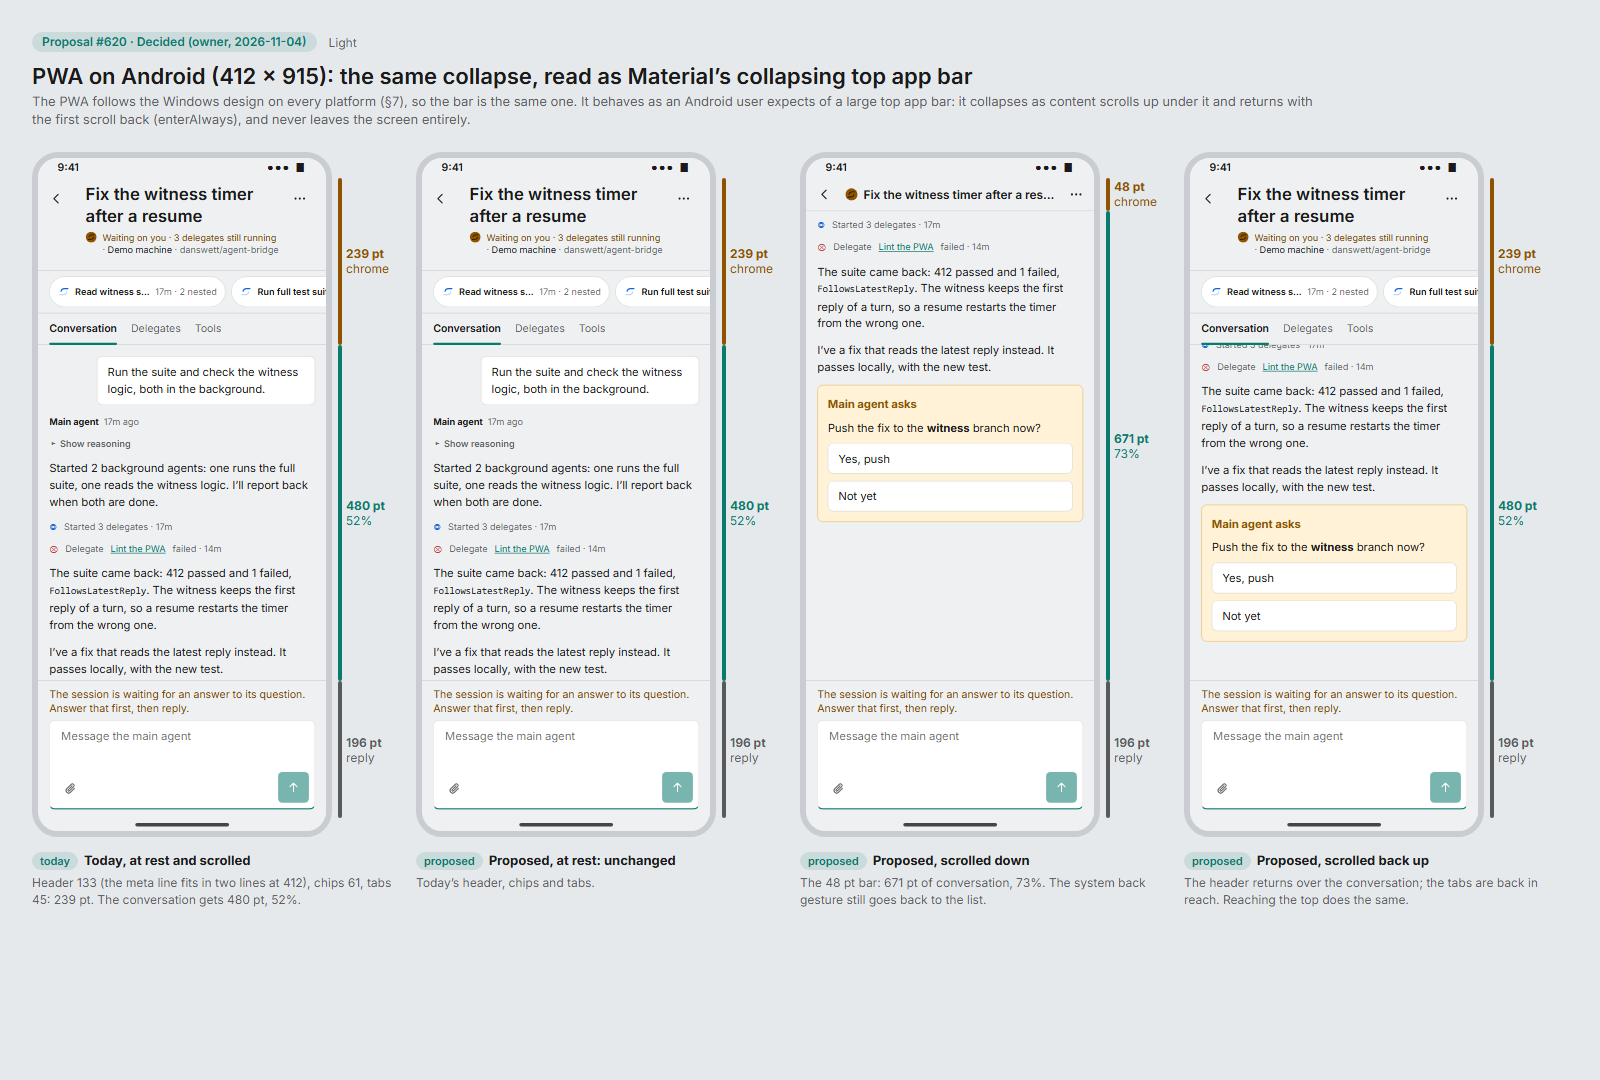
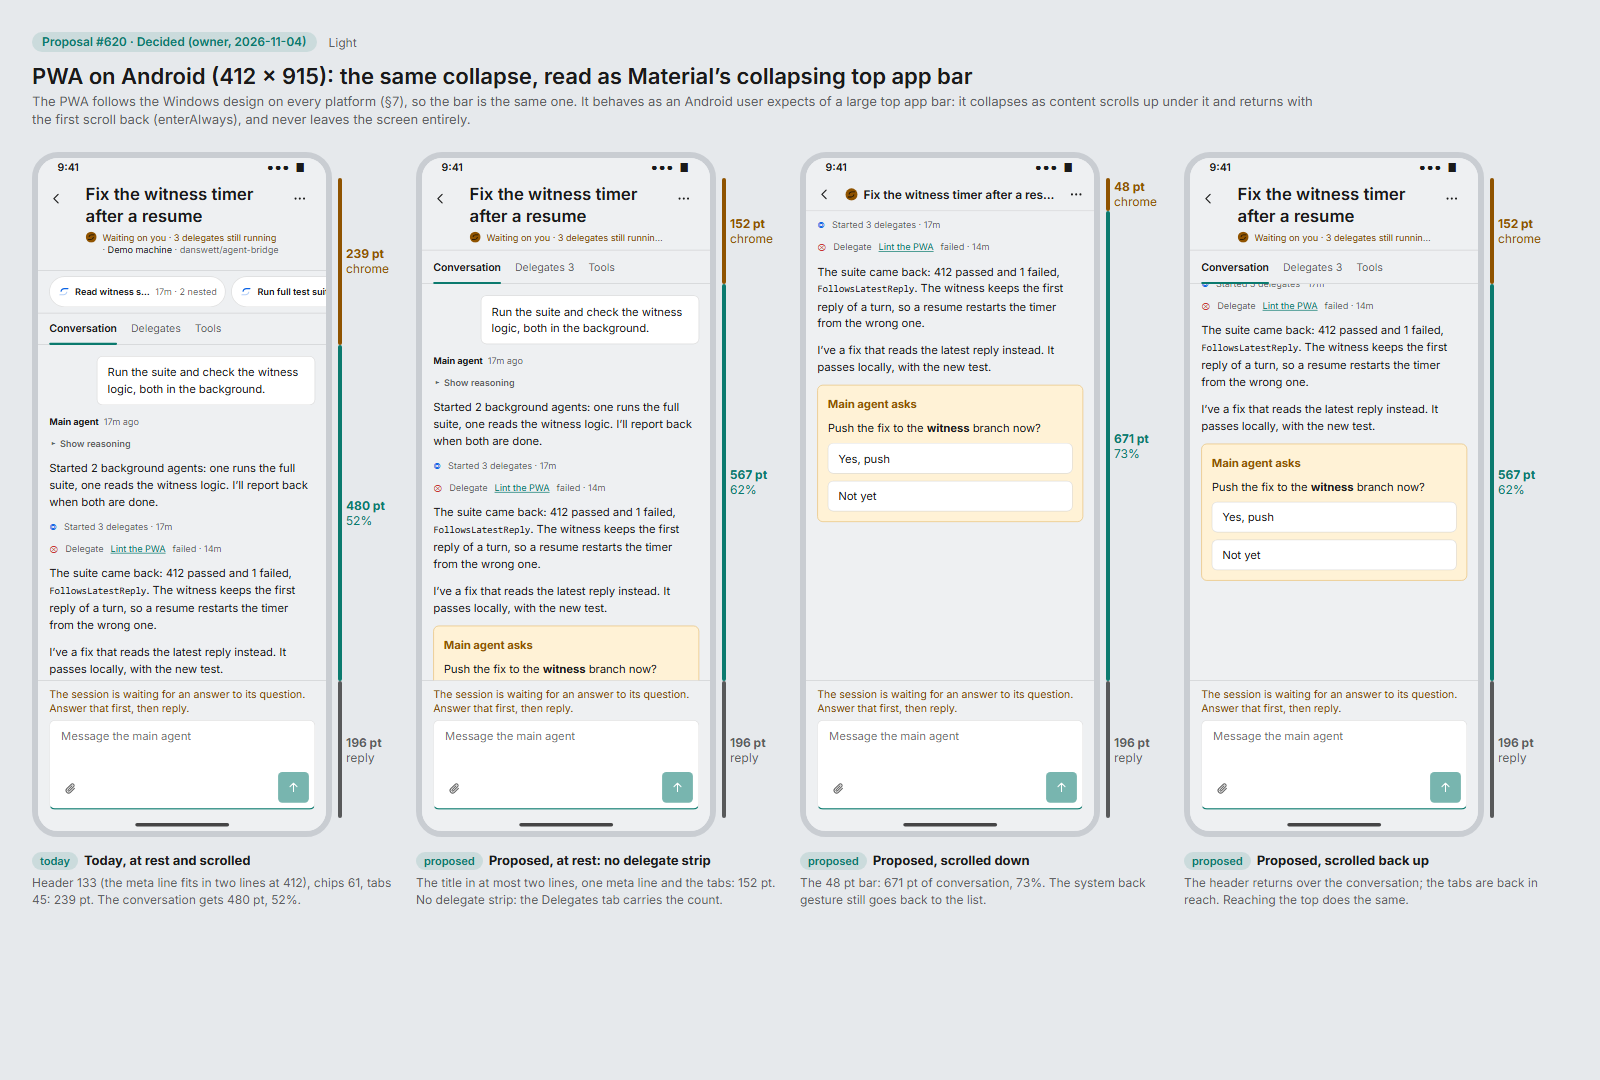
design(620): proposed phone boards draw no delegate strip; the bar's copy is drawn, not read; #941's counting rule
- Frame: a decided at-rest header (152: two-line title, one meta line, 48 tabs with the count), never a strip. Phone, Android, rules and accessibility boards use it; only today's and the optional D3/D4 frames keep the strip. Re-rendered.
- Strip board captions: the status is read once, from the meta line (ui.md §6.2, §9.2).
- ui.md §6.2 and the proposal: running counts the session's own delegates; asking counts a delegate at any depth, worded as #941.

Copilot-Session: c187cf6c-10c7-4d58-a4bd-247912568b18

Changed region(s): [[0.75, 0.1833, 0.9688, 0.6111], [0.25, 0.2139, 0.5, 0.6417], [0.25, 0.7944, 0.4688, 0.8556]]

diff --git a/design/canvas/Proposal-620-Strip.dc.html b/design/canvas/Proposal-620-Strip.dc.html
@@ -35,14 +35,14 @@ const THEMES = {
 const BOARDS = {
   phone: {
     title: 'PWA on an iPhone (390 × 844): the header collapses as you scroll, and comes back as you scroll up',
-    sub: 'At rest nothing changes: the owner finds it fine. Scrolling down slides the title, the meta line, the delegate chips and the tabs up under one pinned 48 pt bar (Back, the session’s glyph, the title on one line, More), tied to your finger as iOS’s large title is. Scrolling back up 64 pt, or reaching the top, brings it all back, over the conversation. Collapsing never moves what you are reading. Marks on the right: chrome (amber), conversation (Bridge, with its share of the screen) and the reply area (grey), as measured in the PWA.',
+    sub: 'At rest, as the owner ruled on 2026-11-05: the title in at most two lines, one meta line and the tabs, 152 pt, with no delegate strip (the Delegates tab carries the count). Scrolling down slides the title, the meta line and the tabs up under one pinned 48 pt bar (Back, the session’s glyph, the title on one line, More), tied to your finger as iOS’s large title is. Scrolling back up 64 pt, or reaching the top, brings it all back, over the conversation. Collapsing never moves what you are reading. Marks on the right: chrome (amber), conversation (Bridge, with its share of the screen) and the reply area (grey), as measured in the PWA.',
     w: 1900, h: 1060, gap: 24,
     frames: [
       { vp: 'i15', state: 'rest', measure: true, at: 'today', label: 'Today, at rest', notes: ['Header 151, chips 61, tabs 45: 257 pt above the conversation, and the reply area 196 below. The conversation gets 391 pt, 46%: the owner’s “about 45%”.'] },
       { vp: 'i15', state: 'rest', offset: 300, measure: true, at: 'today', label: 'Today, scrolled', notes: ['Exactly the same. Nothing collapses: reading the rest of a turn, or getting to the question, is done through a 391 pt slot.'] },
-      { vp: 'i15', state: 'rest', measure: true, at: 'proposed', label: 'Proposed, at rest: unchanged', notes: ['The at-rest header is today’s, title, meta, chips and tabs. Opening a session always shows it like this, at the top.'] },
+      { vp: 'i15', state: 'rest', decided: true, measure: true, at: 'proposed', label: 'Proposed, at rest: no delegate strip', notes: ['The title in at most two lines, one meta line and the tabs: 152 pt, in every delegate state. No delegate strip: the Delegates tab carries the count (“Delegates 3”). Opening a session always shows it like this, at the top.'] },
       { vp: 'i15', state: 'compact', offset: 240, measure: true, at: 'proposed', label: 'Proposed, scrolled down', notes: ['Once the header has slid under the bar, the conversation gets 600 pt, 71% of the screen: 209 pt more.', 'The needs glyph stays in the bar while the session waits on you.'], sr: 'Nothing is announced. The heading is the same h2, now one line.' },
-      { vp: 'i15', state: 'rest', offset: 260, measure: true, at: 'proposed', label: 'Proposed, scrolled back up', notes: ['64 pt of scrolling up brings the whole header back where you are, over the conversation, as Safari’s and Chrome’s bars come back. Nothing under it moves. Reaching the top does the same.'] },
+      { vp: 'i15', state: 'rest', decided: true, offset: 260, measure: true, at: 'proposed', label: 'Proposed, scrolled back up', notes: ['64 pt of scrolling up brings the whole header back where you are, over the conversation, as Safari’s and Chrome’s bars come back. Nothing under it moves. Reaching the top does the same.'] },
     ],
   },
   sizes: {
@@ -66,9 +66,9 @@ const BOARDS = {
     w: 1600, h: 1080, gap: 24,
     frames: [
       { vp: 'android', state: 'rest', measure: true, at: 'today', label: 'Today, at rest and scrolled', notes: ['Header 133 (the meta line fits in two lines at 412), chips 61, tabs 45: 239 pt. The conversation gets 480 pt, 52%.'] },
-      { vp: 'android', state: 'rest', measure: true, at: 'proposed', label: 'Proposed, at rest: unchanged', notes: ['Today’s header, chips and tabs.'] },
+      { vp: 'android', state: 'rest', decided: true, measure: true, at: 'proposed', label: 'Proposed, at rest: no delegate strip', notes: ['The title in at most two lines, one meta line and the tabs: 152 pt. No delegate strip: the Delegates tab carries the count.'] },
       { vp: 'android', state: 'compact', offset: 240, measure: true, at: 'proposed', label: 'Proposed, scrolled down', notes: ['The 48 pt bar: 671 pt of conversation, 73%. The system back gesture still goes back to the list.'] },
-      { vp: 'android', state: 'rest', offset: 260, measure: true, at: 'proposed', label: 'Proposed, scrolled back up', notes: ['The header returns over the conversation; the tabs are back in reach. Reaching the top does the same.'] },
+      { vp: 'android', state: 'rest', decided: true, offset: 260, measure: true, at: 'proposed', label: 'Proposed, scrolled back up', notes: ['The header returns over the conversation; the tabs are back in reach. Reaching the top does the same.'] },
     ],
   },
   rules: {
@@ -76,12 +76,12 @@ const BOARDS = {
     sub: 'Near the top the header follows your scrolling; further down, thresholds decide. Only your own scrolling counts: a finger, a wheel, the keys. A response growing below, a scroll to an arriving question and a restored position never fold the header. Counting restarts whenever the direction changes, so the small back-and-forth of reading changes nothing. Coming back takes 64 pt, twice the 32 pt that sends it away again.',
     w: 1660, h: 940, gap: 18,
     frames: [
-      { vp: 'i15', k: 0.6, state: 'rest', at: '0 pt', label: 'Opened: at the top', notes: ['A session always opens at rest, header in full.'] },
-      { vp: 'i15', k: 0.6, state: 'rest', ride: 100, at: '↓ 100 pt', label: 'Near the top: it rides with you', notes: ['Until the header is under the bar (209 pt here) it moves with your finger, as iOS’s large title does; the title reappears in the bar on one line. Nothing jumps and no gap opens.'] },
-      { vp: 'i15', k: 0.6, state: 'compact', offset: 240, at: '↓ 209 pt', label: 'Collapsed', notes: ['The bar is all that is left. The header slid off the conversation, which never moved under it.'] },
+      { vp: 'i15', k: 0.6, state: 'rest', decided: true, at: '0 pt', label: 'Opened: at the top', notes: ['A session always opens at rest, header in full.'] },
+      { vp: 'i15', k: 0.6, state: 'rest', decided: true, ride: 100, at: '↓ 100 pt', label: 'Near the top: it rides with you', notes: ['Until the header is under the bar (104 pt here) it moves with your finger, as iOS’s large title does; the title reappears in the bar on one line. Nothing jumps and no gap opens.'] },
+      { vp: 'i15', k: 0.6, state: 'compact', offset: 240, at: '↓ 104 pt', label: 'Collapsed', notes: ['The bar is all that is left. The header slid off the conversation, which never moved under it.'] },
       { vp: 'i15', k: 0.6, state: 'compact', offset: 200, at: '↑ 40 pt', label: 'Back up a little: stays compact', notes: ['Under 64 pt up, the bar stays. Reading back a paragraph doesn’t bring the header over it.'] },
-      { vp: 'i15', k: 0.6, state: 'rest', offset: 150, at: '↑ 64 pt', label: 'Comes back', notes: ['64 pt up in one direction brings the whole header back over the conversation (standard duration and easing); 32 pt down sends it away again. A tap on the bar’s title, or reaching the top, does the same.'] },
-      { vp: 'i15', k: 0.6, state: 'compact', offset: 520, glyph: 'needs', at: 'waiting', label: 'Waiting on you, collapsed', notes: ['The needs glyph, on its disc, leads the bar’s title for as long as the question waits. The bar’s accessible name says it: “Waiting on you”.'], sr: '“Fix the witness timer after a resume, heading level 2. Waiting on you.”' },
+      { vp: 'i15', k: 0.6, state: 'rest', decided: true, offset: 150, at: '↑ 64 pt', label: 'Comes back', notes: ['64 pt up in one direction brings the whole header back over the conversation (standard duration and easing); 32 pt down sends it away again. A tap on the bar’s title, or reaching the top, does the same.'] },
+      { vp: 'i15', k: 0.6, state: 'compact', offset: 520, glyph: 'needs', at: 'waiting', label: 'Waiting on you, collapsed', notes: ['The needs glyph, on its disc, leads the bar’s title for as long as the question waits. The bar’s copy is drawn, not read: the status is read once, from the meta line (ui.md §6.2, §9.2).'], sr: '“Fix the witness timer after a resume, heading level 2” … “Waiting on you · 3 delegates still running · Demo machine”' },
     ],
   },
   rest: {
@@ -113,8 +113,8 @@ const BOARDS = {
     sub: 'The heading is never removed, only restyled; focus is never hidden; and the folded parts stay in the accessibility tree and the tab order, so reaching any of them brings the header back first.',
     w: 1340, h: 1080, gap: 24,
     frames: [
-      { vp: 'i15', state: 'rest', offset: 300, focus: 'tab', at: 'keyboard', label: 'Focus inside the header expands it', notes: ['Shift+Tab from the conversation, or a VoiceOver or TalkBack swipe, reaches the Delegates tab: the header comes back before the focus ring draws, and stays while focus is in it.'] },
-      { vp: 'i15', state: 'compact', offset: 300, focus: 'back', at: 'screen reader', label: 'The bar keeps its heading', notes: ['The same h2, one line. Back and More keep their names; the glyph’s state is in the heading’s description. Collapsing announces nothing and moves no focus.'], sr: '“Back, button” … “Fix the witness timer after a resume, heading level 2” … “Waiting on you”' },
+      { vp: 'i15', state: 'rest', decided: true, offset: 300, focus: 'tab', at: 'keyboard', label: 'Focus inside the header expands it', notes: ['Shift+Tab from the conversation, or a VoiceOver or TalkBack swipe, reaches the Delegates tab: the header comes back before the focus ring draws, and stays while focus is in it.'] },
+      { vp: 'i15', state: 'compact', offset: 300, focus: 'back', at: 'screen reader', label: 'The bar keeps its heading', notes: ['The same h2, one line. Back and More keep their names. The bar’s copy is drawn, not read: the status is read once, from the meta line. Collapsing announces nothing and moves no focus.'], sr: '“Back, button” … “Fix the witness timer after a resume, heading level 2” … “Waiting on you · 3 delegates still running · Demo machine”' },
       { vp: 'i15', state: 'compact', offset: 300, hc: true, at: 'forced colours', label: 'High contrast (Night sky; Desert in light)', notes: ['The bar is Canvas with a CanvasText rule under it; the glyph keeps its system-colour form (§9). Nothing relies on a shadow or a tint to show the bar’s edge.'] },
       { vp: 'i15', state: 'compact', offset: 300, at: 'reduced motion', label: 'Reduced motion: a cross-fade', notes: ['Nothing travels: the full header and the bar cross-fade over crossFade (83 ms). The thresholds are unchanged.'] },
     ],

diff --git a/design/canvas/Proposal-620-Frame.dc.html b/design/canvas/Proposal-620-Frame.dc.html
@@ -59,7 +59,7 @@
             <h2 class="p620f-title" style="font-size: {{titleSize}}px; line-height: {{titleLine}}px; max-height: {{titleMax}}px; display: -webkit-box; -webkit-box-orient: vertical; -webkit-line-clamp: {{clamp}}">{{title}}</h2>
             <div class="p620f-meta" style="color: {{t.text2}}">
               <svg viewBox="0 0 48 48" width="16" height="16" style="margin-top: 1px; color: {{glyph.c}}"><sc-if value="{{glyph.bg}}"><circle cx="24" cy="24" r="23" fill="currentColor"/></sc-if><path d="{{glyph.p1}}" fill="{{glyph.f1}}"/><path d="{{glyph.p2}}" fill="currentColor" fill-opacity="{{glyph.o2}}"/></svg>
-              <span style="white-space: {{metaWrap}}; overflow: hidden; text-overflow: ellipsis"><span style="color: {{glyph.words}}">{{statusText}}</span> · <span style="color: {{t.text}}">Demo machine</span> · danswett/agent-bridge</span>
+              <span style="white-space: {{metaWrap}}; overflow: hidden; text-overflow: ellipsis"><span style="color: {{glyph.words}}">{{statusText}}</span> · <span style="color: {{t.text}}">Demo machine</span>{{repoTail}}</span>
             </div>
           </div>
           <div class="p620f-ib" style="color: {{t.text}}"><dc-import name="Icon" icon="more" size="22" hint-size="22px,22px"></dc-import></div>
@@ -84,7 +84,7 @@
         </div>
       </sc-if>
       <sc-if value="{{showTabs}}">
-        <div class="p620f-tabs" style="height: 45px; border-bottom: 1px solid {{t.stroke2}}">
+        <div class="p620f-tabs" style="height: {{tabsPx}}px; border-bottom: 1px solid {{t.stroke2}}">
           <sc-for list="{{tabs}}" as="tb">
             <div class="p620f-tab" style="color: {{tb.color}}; font-weight: {{tb.weight}}; outline: {{tb.focus}}; outline-offset: 2px">{{tb.text}}<sc-if value="{{tb.sel}}"><span style="position: absolute; left: 0; right: 0; bottom: -1px; height: 3px; border-radius: 2px; background: {{t.bridge}}"></span></sc-if></div>
           </sc-for>
@@ -221,15 +221,19 @@ class Component extends DCLogic {
     const compact = f.state === 'compact';
     const top = f.top || 'today';
     const long = !!f.long;
+    // The owner's ruling of 2026-11-05 (ui.md §6.2): a phone at rest has the title in at most two
+    // lines, one meta line and a 48 row of tabs, 152 in all, and no delegate strip at all.
+    const decided = !compact && !!f.decided;
     // A clamp of two lines at the today size, or at 20/26 (D3's options).
     const titleSize = top === 'small' ? 20 : 24, titleLine = top === 'small' ? 26 : 32;
-    const lines = long && top === 'today' ? 4 : 2;
-    const clamp = top === 'today' ? 'none' : '2';
+    const lines = long && top === 'today' && !decided ? 4 : 2;
+    const clamp = top === 'today' && !decided ? 'none' : '2';
     let hdrH = v.hdr + (lines - 2) * titleLine;
     const metaSave = v.hdr === 151 ? 36 : 18;
     if (top === 'small') { hdrH = v.hdr - 12 - metaSave; }
     if (top === 'oneline') { hdrH = v.hdr - metaSave; }
-    const showStrip = !compact && top !== 'intab' && top !== 'onerow';
+    if (decided) { hdrH = 104; }
+    const showStrip = !compact && !decided && top !== 'intab' && top !== 'onerow';
     const combo = !compact && top === 'onerow';
     const showTabs = !compact && !combo;
     const bottom = f.bottom || 'today';
@@ -239,7 +243,7 @@ class Component extends DCLogic {
     const boxH = 128;
     const slotH = 8 + 12 + (heldToday ? 42 + 6 : 0) + (heldOne ? 21 + 6 : 0) + (boxOne ? (bottom === 'grown' ? 52 + 120 : 52) : boxH);
     const hdrUsed = compact ? 48 : hdrH;
-    const stripH = showStrip ? 61 : 0, tabsH = showTabs ? 45 : (combo ? 53 : 0);
+    const stripH = showStrip ? 61 : 0, tabsH = showTabs ? (decided ? 48 : 45) : (combo ? 53 : 0);
     // Near the top the header rides up with the conversation under the pinned bar (iOS's large title).
     const fullH = hdrUsed + stripH + tabsH;
     const ride = compact ? 0 : Math.min(f.ride || 0, fullH - 48);
@@ -254,7 +258,7 @@ class Component extends DCLogic {
       { ...chipsWork, name: 'Read witness s…', facts: '17m · 2 nested' },
       { ...chipsWork, name: 'Run full test suite', facts: '16m' },
     ];
-    const tabNames = top === 'intab' ? ['Conversation', 'Delegates · 3', 'Tools'] : ['Conversation', 'Delegates', 'Tools'];
+    const tabNames = top === 'intab' ? ['Conversation', 'Delegates · 3', 'Tools'] : decided ? ['Conversation', 'Delegates 3', 'Tools'] : ['Conversation', 'Delegates', 'Tools'];
     const tabs = tabNames.map((text, i) => ({ text, sel: i === 0, color: i === 0 ? t.text : t.text2, weight: i === 0 ? 600 : 400, focus: f.focus === 'tab' && i === 1 ? `2px solid ${t.focus}` : 'none' }));
     const sw = v.w, sh = sysTop + v.h + sysBot;
     const fw = Math.round(sw * k) + 12, fh = Math.round(sh * k) + 12;
@@ -276,9 +280,10 @@ class Component extends DCLogic {
       radius: v.ios ? 34 : 26, bezel: `6px solid ${t.bezel}`,
       rest: !compact, compact, hdrH, titleSize, titleLine, titleMax: (clamp === 'none' ? lines : 2) * titleLine, clamp,
       title: long ? LONG : TITLE,
-      metaWrap: top === 'oneline' || top === 'small' ? 'nowrap' : 'normal',
+      metaWrap: decided || top === 'oneline' || top === 'small' ? 'nowrap' : 'normal',
+      repoTail: decided ? '' : ' · danswett/agent-bridge',
       statusText: needs ? 'Waiting on you · 3 delegates still running' : 'Working · 3 delegates still running',
-      glyph: g, chips, tabs, showStrip, showTabs, combo,
+      glyph: g, chips, tabs, showStrip, showTabs, tabsPx: decided ? 48 : 45, combo,
       offset: compact ? (f.offset ?? 300) : (f.offset ?? 0),
       qEdge: `${f.hc ? 2 : 1}px solid ${t.needsEdge}`,
       heldToday, heldOne, boxTall: !boxOne, boxOne, boxH,

diff --git a/docs/design/proposals/620-compact-header.md b/docs/design/proposals/620-compact-header.md
@@ -126,6 +126,7 @@ This replaces "At rest: unchanged" below. ui.md §6.2 has the spec.
   - "Delegates 2" while two run, read "Delegates, 2 running". No count when none run.
   - While one asks, the tab leads with the `needs` glyph, read "Delegates, 2 running, 1
     asking". The question is answered in the conversation, never only in the tab.
+  - Running counts the session's own delegates; asking counts a delegate at any depth.
   - The row never changes height, so nothing below moves.
 
 **Measured** (the prototype, Chromium and WebKit, a two-line title):
@@ -450,9 +451,9 @@ All the boards on one page: [contact-sheet.png](620-compact-header/contact-sheet
 
 | Board | Dark · light | What it shows |
 |---|---|---|
-| PWA on an iPhone, 390 × 844 | [dark](620-compact-header/proposal-620-phone.png) · [light](620-compact-header/proposal-620-phone-light.png) | Today at rest and scrolled; proposed at rest (unchanged), scrolled down and scrolled back up, with measured heights |
+| PWA on an iPhone, 390 × 844 | [dark](620-compact-header/proposal-620-phone.png) · [light](620-compact-header/proposal-620-phone-light.png) | Today at rest and scrolled; proposed at rest (the owner's 2026-11-05 header: two-line title, one meta line, tabs, no delegate strip), scrolled down and scrolled back up, with measured heights |
 | Four phones | [dark](620-compact-header/proposal-620-sizes.png) · [light](620-compact-header/proposal-620-sizes-light.png) | Today and scrolled at 375 × 667, 390 × 844, 430 × 932 and Android 412 × 915: the table above |
-| PWA on Android, 412 × 915 | [dark](620-compact-header/proposal-620-android.png) · [light](620-compact-header/proposal-620-android-light.png) | The same collapse, read as Material's collapsing top app bar |
+| PWA on Android, 412 × 915 | [dark](620-compact-header/proposal-620-android.png) · [light](620-compact-header/proposal-620-android-light.png) | The same collapse, read as Material's collapsing top app bar; at rest, no delegate strip |
 | The rules | [dark](620-compact-header/proposal-620-rules.png) · [light](620-compact-header/proposal-620-rules-light.png) | At the top; riding up with the finger; compact; 40 up stays; 64 up comes back; waiting on you |
 | Optional, at rest (D3, D4), superseded by the rest-*.png captures above | [dark](620-compact-header/proposal-620-rest.png) · [light](620-compact-header/proposal-620-rest-light.png) | A long title today; a two-line limit; 20/26; tabs and chips in one row; chips in the Delegates tab |
 | Optional, the bottom (D5, D6) | [dark](620-compact-header/proposal-620-bottom.png) · [light](620-compact-header/proposal-620-bottom-light.png) | Today's reply area; a one-line notice; a one-line box; both; the box grown |

diff --git a/docs/design/ui.md b/docs/design/ui.md
@@ -669,10 +669,12 @@ joined words at a separator, since a fact can carry a delegate's name (#286).
     - **There is no delegate strip on a phone,** whatever the delegates are doing. The
       Delegates tab carries what it carried.
     - **While delegates are running,** the tab's label has their count: "Delegates 2", read as
-      "Delegates, 2 running". With none running, there is no count.
+      "Delegates, 2 running". With none running, there is no count. The count is the
+      session's own delegates, not the ones they delegate to in turn.
     - **While a delegate is asking,** the tab leads with the `needs` glyph, and its name says
-      so: "Delegates, 2 running, 1 asking". The question itself is in the conversation, naming
-      the delegate (#661, §7.0), and is answered there without opening the tab.
+      so: "Delegates, 2 running, 1 asking". Asking counts a delegate at any depth, since the
+      question is the person's wherever it comes from. The question itself is in the
+      conversation, naming the delegate (#661, §7.0), and is answered there without opening the tab.
     - The count and glyph change in place, so the row never changes height.
     - The tabs are one Tab stop with arrows inside, as every tab list.
   - Tablet, desktop and the Windows app keep the header above, chips included.
